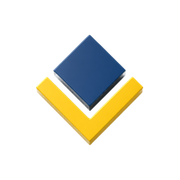
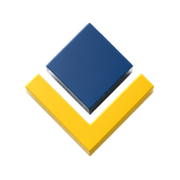
Ícone do app maior
Claude-Session: https://claude.ai/code/session_017b78exMwcjrD5xtav95FFa

Changed region(s): [[0.1389, 0.1111, 0.8611, 0.8889]]

diff --git a/sw.js b/sw.js
@@ -1,5 +1,5 @@
 /* CTA – permite instalar como app e abrir mesmo com internet fraca (dados continuam no servidor) */
-const CACHE='cta-v1';
+const CACHE='cta-v2';
 const BASE=['./','./index.html','./manifest.json','./icon-192.png','./icon-512.png'];
 self.addEventListener('install',e=>{e.waitUntil(caches.open(CACHE).then(c=>c.addAll(BASE)).then(()=>self.skipWaiting()))});
 self.addEventListener('activate',e=>{e.waitUntil(caches.keys().then(ks=>Promise.all(ks.filter(k=>k!==CACHE).map(k=>caches.delete(k)))).then(()=>self.clients.claim()))});
